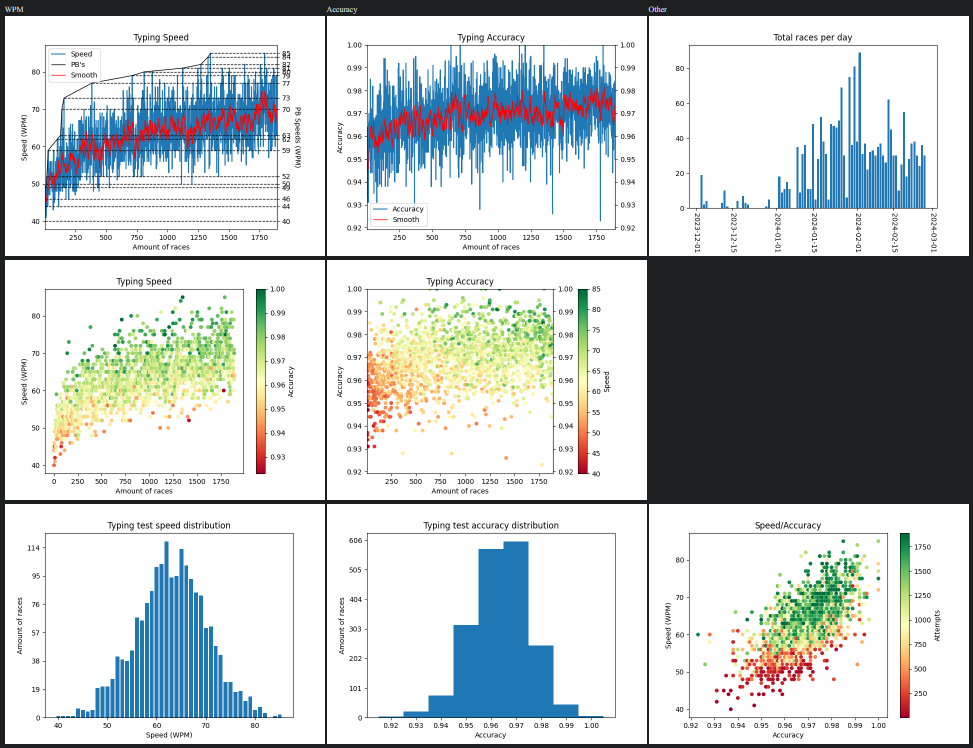
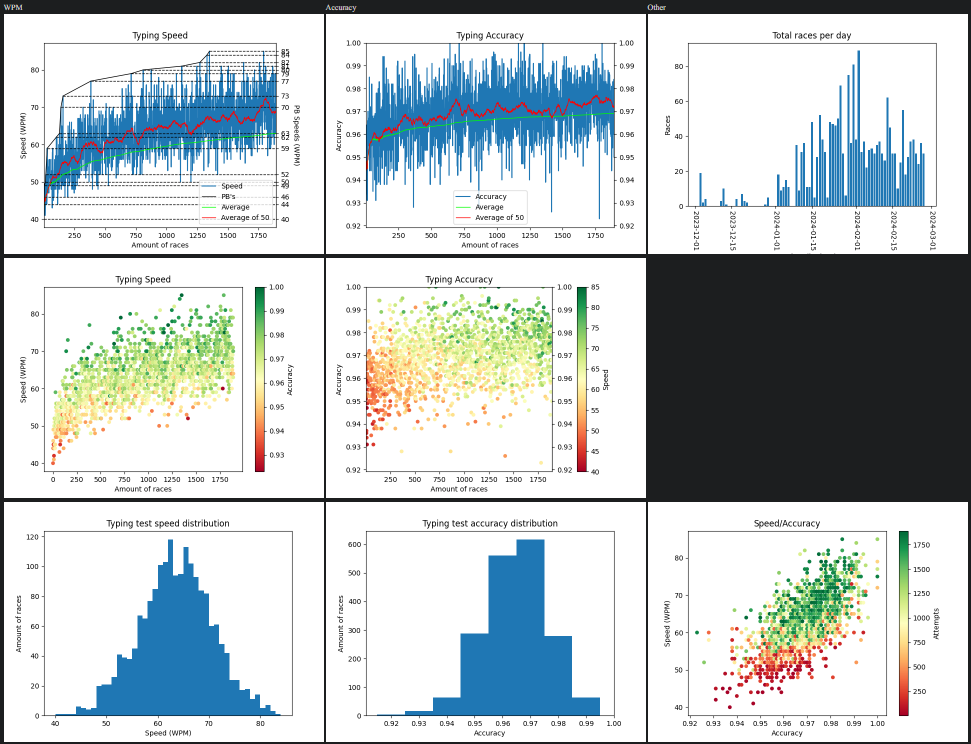
update readme example

diff --git a/README.md b/README.md
@@ -14,8 +14,10 @@ from StatsScraper import StatsScraper
 ss = StatsScraper("skyprompdvorak")
 gm = GraphMaker(ss.getData())
 
-gm.plotWPM()
-gm.plotAccuracy()
+smoothing = 50
+
+gm.plotWPM(average_grouping=50)
+gm.plotAccuracy(average_grouping=50)
 gm.plotWPMAccCorrelation()
 gm.plotAccWPMCorrelation()
 gm.plotDailyRaces()
